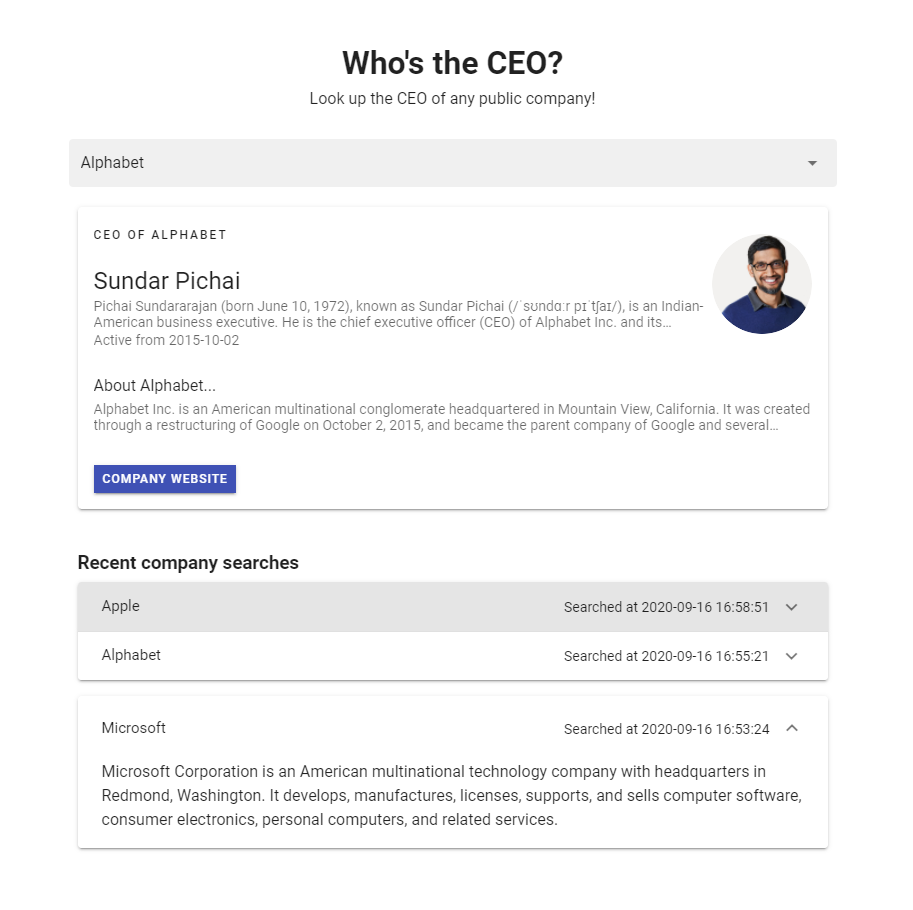
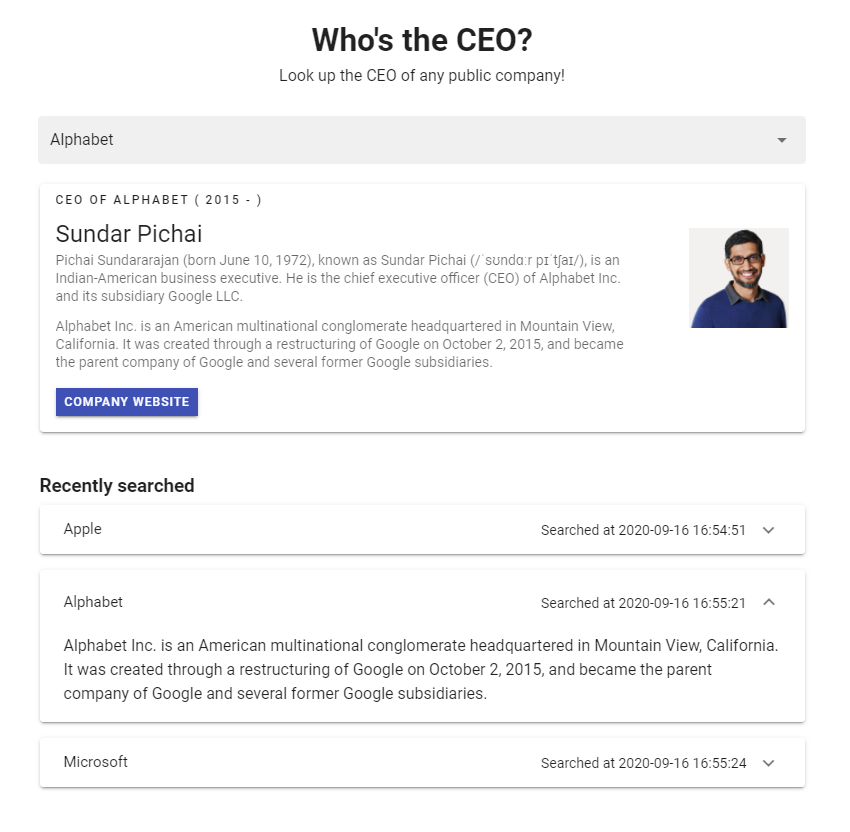
Updated readme, small adjustments

diff --git a/src/components/SearchBar.vue b/src/components/SearchBar.vue
@@ -33,7 +33,7 @@ export default {
 
   async mounted() {
     try {
-      const result = await Base.GetData("/companies/GetCompanyList");
+      const result = await Base.GetData("/companies/list");
       result.forEach(company => {
         const companyItem = {};
         companyItem.id = company.companyId;

diff --git a/src/components/Result.vue b/src/components/Result.vue
@@ -54,16 +54,17 @@ export default {
 .ceo-bio {
   font-size: 14px;
   color: rgba(0, 0, 0, 0.6);
+  line-height: 18px;
 }
 
 .company-bio {
   font-size: 14px;
   color: rgba(0, 0, 0, 0.6);
   margin: 10px 0px 0px 0px;
+  line-height: 18px;
 }
 
 .result {
   padding: 0px 60px 0px 0px;
 }
-
 </style>

diff --git a/README.md b/README.md
@@ -8,5 +8,5 @@ This application acts as the front-end implementation of [whostheceo-api-service
 - State management: Vuex
 - Test are coming soon!
 
-<!-- # Preview
+# Preview
 ![Scheme](preview.PNG) -->
